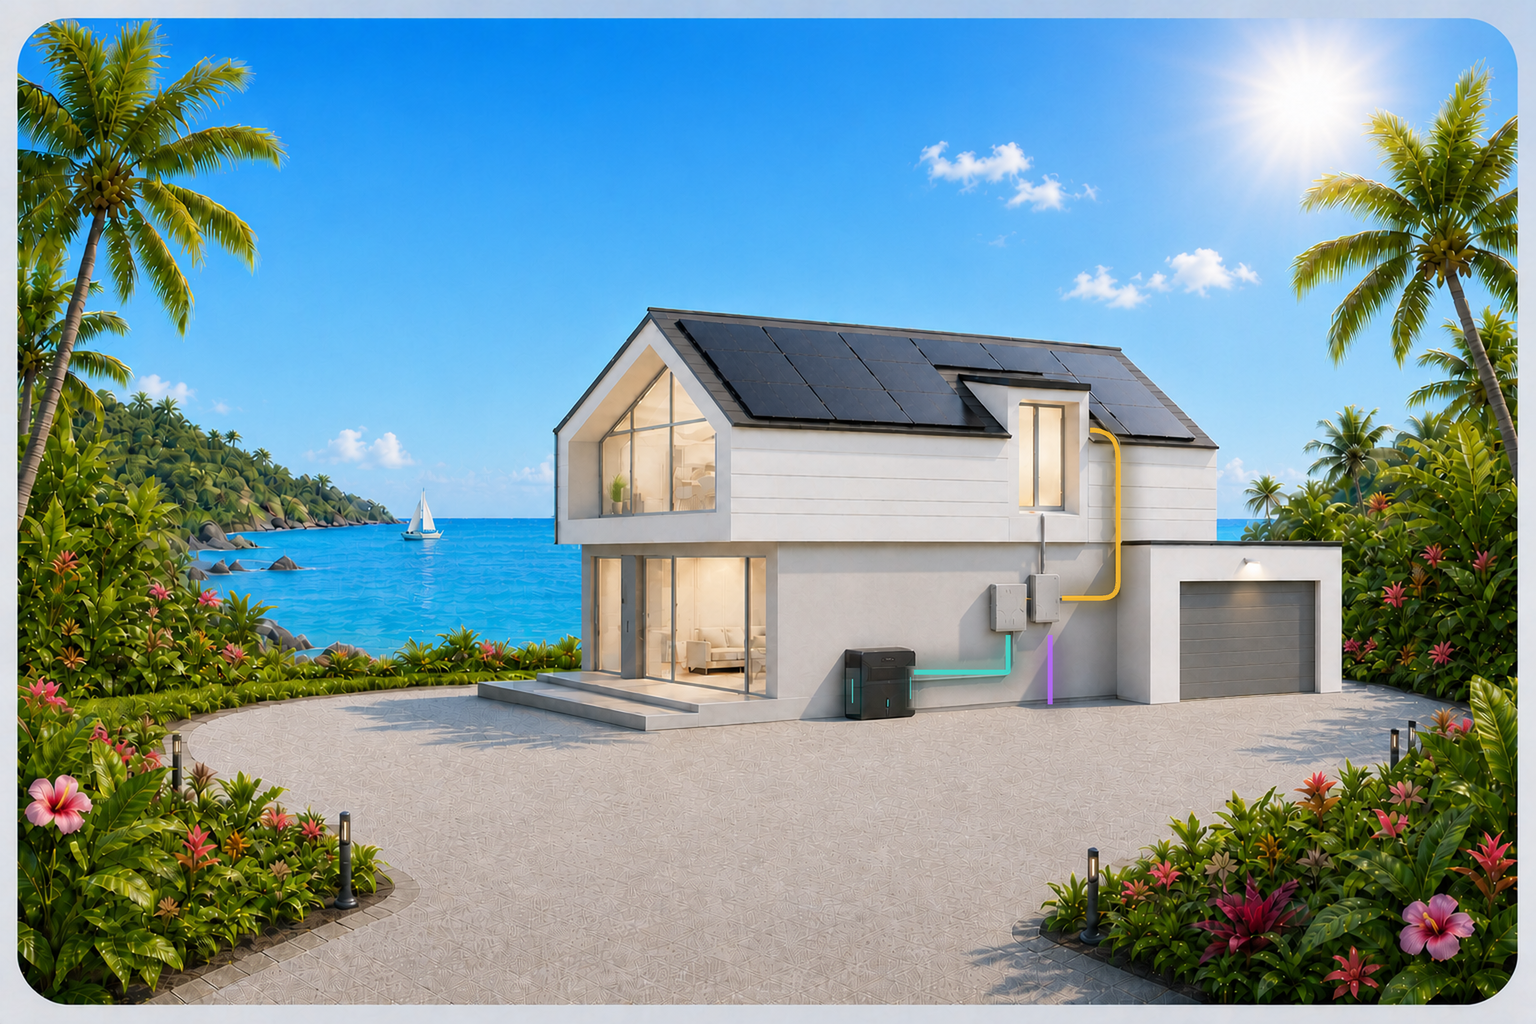
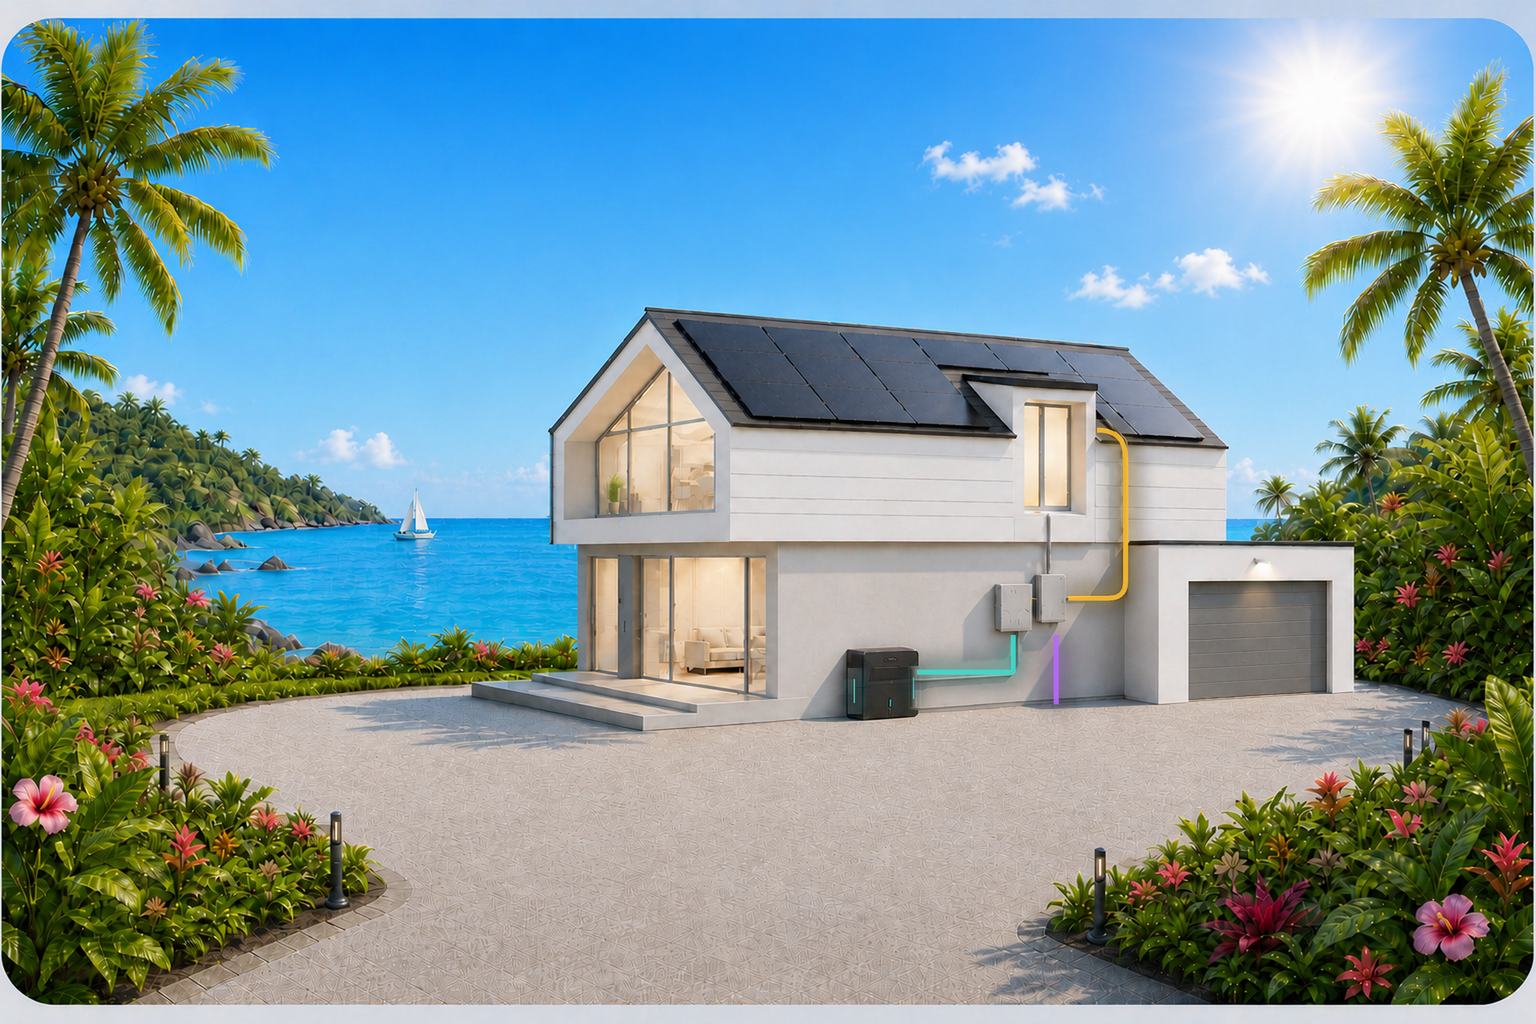
Crop embedded white image side edges

diff --git a/energy-house-aligned-v47-card.js b/energy-house-aligned-v47-card.js
@@ -291,7 +291,7 @@
           <div class="canvas">
             <svg
               class="scene"
-              viewBox="0 0 1536 1024"
+              viewBox="16 0 1504 1024"
               preserveAspectRatio="xMidYMid slice"
               aria-hidden="true"
             >
@@ -2875,7 +2875,7 @@
   }
 
   console.info(
-      "%c ENERGY-HOUSE-ALIGNED-V47-CARD %c v4.7.5 batterij-zijaansluiting ",
+      "%c ENERGY-HOUSE-ALIGNED-V47-CARD %c v4.7.6 randcrop ",
     "color:white;background:#2563eb;font-weight:700;padding:2px 5px",
     "color:#2563eb;background:#dbeafe;font-weight:700;padding:2px 5px"
   );
